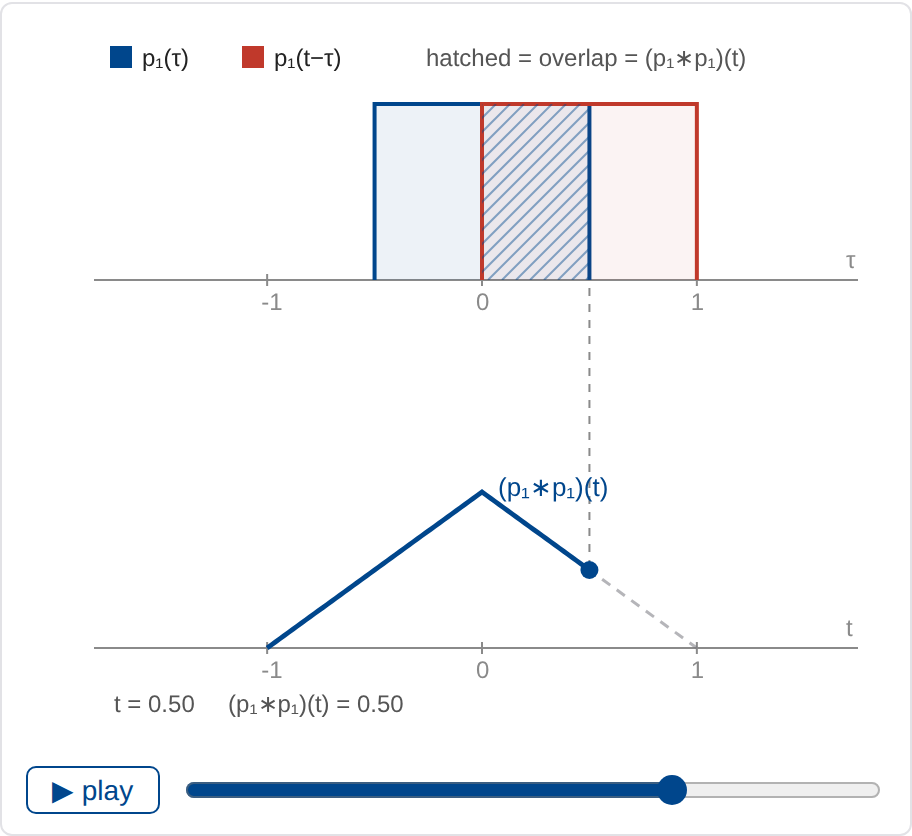
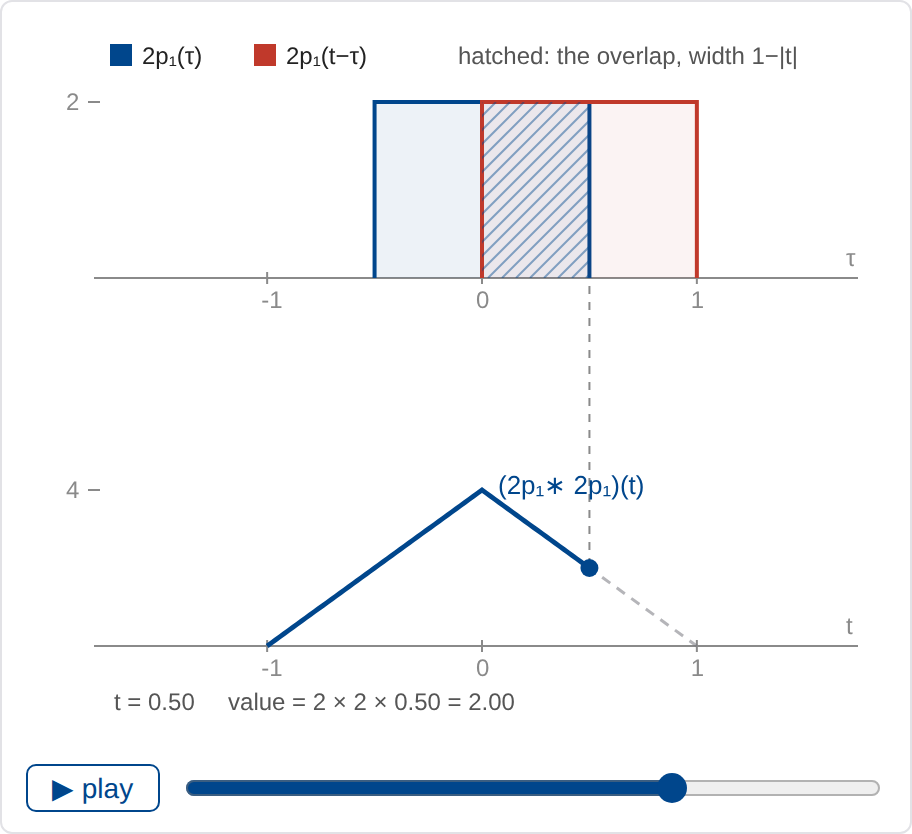
Updated pulse example

diff --git a/weeks/week03/convolution-widgets.js b/weeks/week03/convolution-widgets.js
@@ -395,11 +395,12 @@
 
   // ========================================================================
   // Flip-and-slide convolution of a rectangular pulse with itself.
-  //   p_1 = unit-width pulse centred on the origin, i.e. on [-1/2, 1/2];
-  //   (p_1*p_1)(t) = overlap area = max(0, 1 - |t|).
-  // Top panel: p_1(τ) fixed (navy) and the flipped, shifted copy p_1(t-τ) sliding
-  // (brick); the hatched overlap is the value plotted below. Bottom panel traces
-  // the triangular result (p_1*p_1)(t) as t sweeps, with a dashed line linking the
+  //   2p_1 = width-1 pulse centred on the origin, i.e. on [-1/2, 1/2], height 2;
+  //   (2p_1*2p_1)(t) = 2 * 2 * (overlap width) = 4 max(0, 1 - |t|).
+  // Top panel: 2p_1(τ) fixed (navy) and the flipped, shifted copy 2p_1(t-τ) sliding
+  // (brick), with their overlap hatched. The value is NOT the hatched area: it is
+  // the integral of the product, so the two heights multiply. Bottom panel traces
+  // the triangular result (2p_1*2p_1)(t) as t sweeps, with a dashed line linking the
   // pulse position t to the point it produces on the triangle.
   // ========================================================================
   function pulseconv() {
@@ -412,13 +413,15 @@
     const xm = t => padL + (t - TMIN) / (TMAX - TMIN) * plotW;
 
     // panel baselines and the pixel height of one unit of amplitude
-    const yTop = 128, hTop = 88;      // τ-axis (top);   value 1 sits hTop px above
-    const yBot = 312, hBot = 78;      // t-axis (bottom); value 1 sits hBot px above
+    const yTop = 128, hTop = 44;      // τ-axis (top);   value 1 sits hTop px above
+    const yBot = 312, hBot = 19.5;    // t-axis (bottom); value 1 sits hBot px above
     const yTopV = v => yTop - v * hTop;
     const yBotV = v => yBot - v * hBot;
 
     const HALF = 0.5;                                   // pulse half-width
-    const overlap = t => Math.max(0, 1 - Math.abs(t));  // = (x*x)(t)
+    const AMP  = 2;                                     // pulse height: these are 2p_1
+    const width = t => Math.max(0, 1 - Math.abs(t));    // width of the overlap
+    const conv  = t => AMP * AMP * width(t);            // = (2p_1 * 2p_1)(t)
 
     // diagonal hatch clipped to a rectangle, echoing the hand-drawn overlap
     function hatch(x0, x1, ytop, ybase, color) {
@@ -441,8 +444,14 @@
       });
       if (lab) ctx.fillText(lab, padL + plotW - 6, y - 6);
     }
+    function level(y, lab) {                 // amplitude mark on the left of a panel
+      ctx.strokeStyle = GREY; ctx.lineWidth = 1;
+      ctx.beginPath(); ctx.moveTo(padL - 9, y); ctx.lineTo(padL - 3, y); ctx.stroke();
+      ctx.fillStyle = GREY; ctx.font = "12px Arial";
+      ctx.fillText(lab, padL - 20, y + 4);
+    }
     function box(x0, x1, stroke, fill) {
-      const yt = yTopV(1);
+      const yt = yTopV(AMP);
       ctx.fillStyle = fill; ctx.fillRect(x0, yt, x1 - x0, yTop - yt);
       ctx.strokeStyle = stroke; ctx.lineWidth = 2;
       ctx.beginPath();
@@ -456,45 +465,47 @@
       // legend
       ctx.font = "12px Arial";
       ctx.fillStyle = NAVY; ctx.fillRect(padL + 2, 11, 11, 11);
-      ctx.fillStyle = INK;  ctx.fillText("p\u2081(\u03C4)", padL + 18, 21);
-      ctx.fillStyle = OUT;  ctx.fillRect(padL + 68, 11, 11, 11);
-      ctx.fillStyle = INK;  ctx.fillText("p\u2081(t\u2212\u03C4)", padL + 84, 21);
+      ctx.fillStyle = INK;  ctx.fillText("2p\u2081(\u03C4)", padL + 18, 21);
+      ctx.fillStyle = OUT;  ctx.fillRect(padL + 74, 11, 11, 11);
+      ctx.fillStyle = INK;  ctx.fillText("2p\u2081(t\u2212\u03C4)", padL + 90, 21);
       ctx.fillStyle = "#555";
-      ctx.fillText("hatched = overlap = (p\u2081\u2217p\u2081)(t)", padL + 160, 21);
+      ctx.fillText("hatched: the overlap, width 1\u2212|t|", padL + 176, 21);
 
       // top panel: fixed pulse, sliding flipped pulse, hatched overlap
       axis(yTop, "\u03C4");
+      level(yTopV(AMP), "2");
       box(xm(-HALF), xm(HALF), NAVY, "rgba(0,70,140,0.07)");
       box(xm(t - HALF), xm(t + HALF), OUT, "rgba(192,57,43,0.06)");
       const oL = Math.max(-HALF, t - HALF), oR = Math.min(HALF, t + HALF);
-      if (oR > oL) hatch(xm(oL), xm(oR), yTopV(1), yTop, "rgba(0,70,140,0.45)");
+      if (oR > oL) hatch(xm(oL), xm(oR), yTopV(AMP), yTop, "rgba(0,70,140,0.45)");
 
       // connector: the pulse position t maps to the point below
       ctx.strokeStyle = GREY; ctx.setLineDash([4, 4]); ctx.lineWidth = 1;
-      ctx.beginPath(); ctx.moveTo(xm(t), yTop + 4); ctx.lineTo(xm(t), yBotV(overlap(t))); ctx.stroke();
+      ctx.beginPath(); ctx.moveTo(xm(t), yTop + 4); ctx.lineTo(xm(t), yBotV(conv(t))); ctx.stroke();
       ctx.setLineDash([]);
 
       // bottom panel: full triangle guide, then the swept portion solid
       axis(yBot, "t");
+      level(yBotV(conv(0)), "4");
       ctx.strokeStyle = "rgba(120,120,128,0.55)"; ctx.lineWidth = 1.5; ctx.setLineDash([5, 4]);
       ctx.beginPath();
-      ctx.moveTo(xm(-1), yBotV(0)); ctx.lineTo(xm(0), yBotV(1)); ctx.lineTo(xm(1), yBotV(0));
+      ctx.moveTo(xm(-1), yBotV(0)); ctx.lineTo(xm(0), yBotV(conv(0))); ctx.lineTo(xm(1), yBotV(0));
       ctx.stroke(); ctx.setLineDash([]);
       const ts = Math.max(-1, Math.min(1, t));
       ctx.strokeStyle = NAVY; ctx.lineWidth = 2.4; ctx.beginPath();
       ctx.moveTo(xm(-1), yBotV(0));
-      for (let tt = -1; tt <= ts + 1e-9; tt += 0.02) ctx.lineTo(xm(tt), yBotV(overlap(tt)));
-      ctx.lineTo(xm(ts), yBotV(overlap(ts)));
+      for (let tt = -1; tt <= ts + 1e-9; tt += 0.02) ctx.lineTo(xm(tt), yBotV(conv(tt)));
+      ctx.lineTo(xm(ts), yBotV(conv(ts)));
       ctx.stroke();
       ctx.fillStyle = NAVY;
-      ctx.beginPath(); ctx.arc(xm(ts), yBotV(overlap(ts)), 4.5, 0, 2 * Math.PI); ctx.fill();
+      ctx.beginPath(); ctx.arc(xm(ts), yBotV(conv(ts)), 4.5, 0, 2 * Math.PI); ctx.fill();
       ctx.fillStyle = NAVY; ctx.font = "13px Arial";
-      ctx.fillText("(p\u2081\u2217p\u2081)(t)", xm(0) + 8, yBotV(1) + 2);
+      ctx.fillText("(2p\u2081\u2217 2p\u2081)(t)", xm(0) + 8, yBotV(conv(0)) + 2);
 
       // readout
       ctx.fillStyle = "#555"; ctx.font = "12px Arial";
-      ctx.fillText("t = " + t.toFixed(2) + "     (p\u2081\u2217p\u2081)(t) = " + overlap(t).toFixed(2),
-                   padL + 4, yBot + 32);
+      ctx.fillText("t = " + t.toFixed(2) + "     value = 2 \u00D7 2 \u00D7 " + width(t).toFixed(2) +
+                   " = " + conv(t).toFixed(2), padL + 4, yBot + 32);
     }
 
     // controls: play/pause (ping-pong sweep) + slider for t
